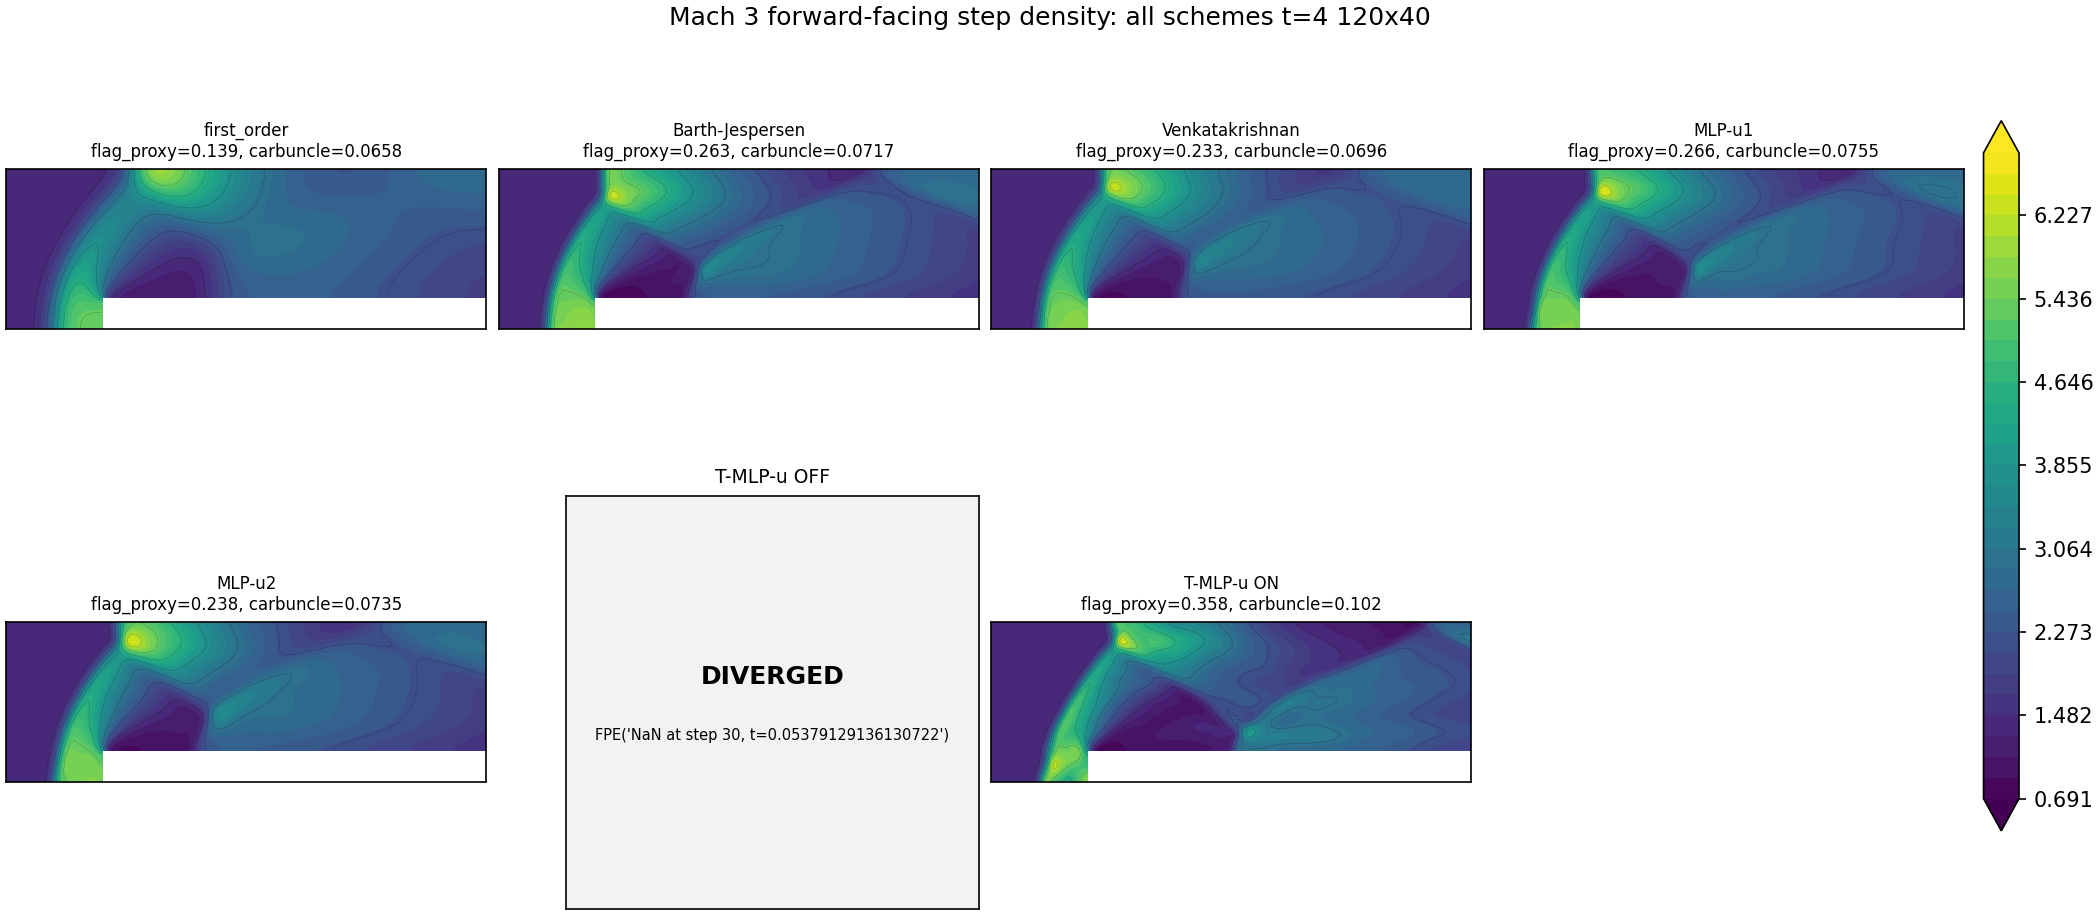
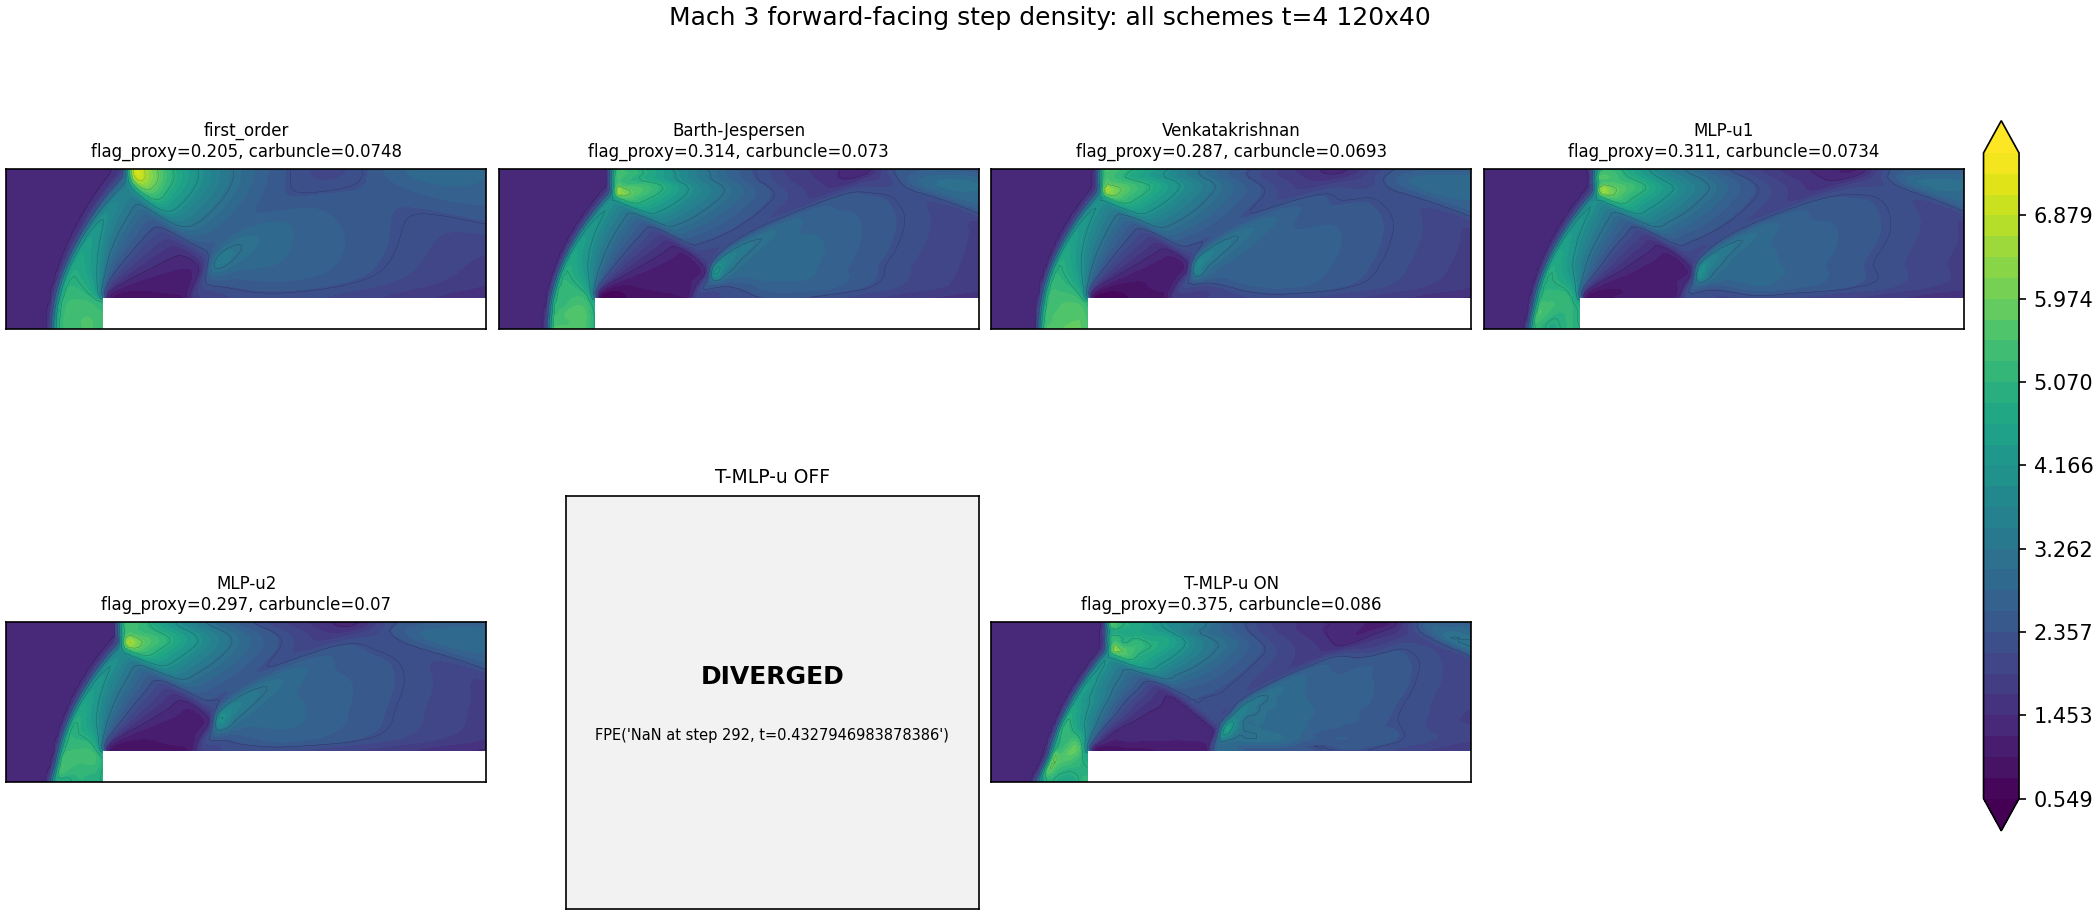
experiment: correct Double Mach setup and use shock-stable HLLC flux

diff --git a/solver/solve_T-MLP-u/tests/test_2d_tmlpu_paper_benchmarks.py b/solver/solve_T-MLP-u/tests/test_2d_tmlpu_paper_benchmarks.py
@@ -291,6 +291,23 @@ def _comparison_suite(kind):
     ]
 
 
+def _double_mach_states():
+    gamma = 1.4
+    pre = (1.4, 0.0, 0.0, 1.0)
+    post = (8.0,
+            8.25 * np.cos(np.pi / 6.0),
+            -8.25 * np.sin(np.pi / 6.0),
+            116.5)
+    return gamma, pre, post
+
+
+def _double_mach_exact_state(point, time=0.0):
+    _, pre, post = _double_mach_states()
+    x, y = float(point[0]), float(point[1])
+    shock_x = 1.0 / 6.0 + (y + 20.0 * float(time)) / np.sqrt(3.0)
+    return post if x < shock_x else pre
+
+
 def _leveque_phi0(x, y):
     r0 = 0.15
     r1 = np.sqrt((x - 0.5) ** 2 + (y - 0.75) ** 2) / r0
@@ -406,16 +423,32 @@ def _checker_score(mesh, val):
 
 
 def run_double_mach(out, quick):
-    gamma = 1.4
+    gamma, pre, post_state = _double_mach_states()
     nx, ny = (40, 10) if quick else (120, 30)
     Lx, Ly = 4.0, 1.0
-    mesh = _quad_mesh(nx, ny, Lx, Ly)
+
+    def classify(center, normal):
+        cx, cy = float(center[0]), float(center[1])
+        if cx <= 1e-9 * Lx:
+            return 1
+        if cx >= Lx - 1e-9 * Lx:
+            return 2
+        if cy <= 1e-9 * Ly:
+            return 3 if cx <= 1.0 / 6.0 + 1e-12 else 4
+        if cy >= Ly - 1e-9 * Ly:
+            return 5
+        return 2
+
+    mesh = _quad_mesh(nx, ny, Lx, Ly, classifier=classify,
+                      patches=('x_min_postshock', 'x_max_outflow',
+                               'bottom_postshock', 'bottom_reflect',
+                               'top_exact_shock'))
     eq = Euler2D(gamma=gamma)
-    rho1, u1, v1, p1 = 1.4, 0.0, 0.0, 1.0
-    rho2, u2, v2, p2 = 8.0, 8.25 * np.cos(np.pi / 6.0), -8.25 * np.sin(np.pi / 6.0), 116.5
+    rho1, u1, v1, p1 = pre
+    rho2, u2, v2, p2 = post_state
     x = mesh.cell_centers[:, 0]
     y = mesh.cell_centers[:, 1]
-    shock_x = 1.0 / 6.0 + y / np.tan(np.pi / 3.0)
+    shock_x = 1.0 / 6.0 + y / np.sqrt(3.0)
     post = x < shock_x
     W0 = np.vstack([
         np.where(post, rho2, rho1),
@@ -425,15 +458,17 @@ def run_double_mach(out, quick):
     ])
     U0 = eq.prim_to_cons(W0)
     bc = {
-        'x_min': BoundaryCondition('dirichlet', state=(rho2, u2, v2, p2)),
-        'x_max': BoundaryCondition('transmissive'),
-        'y_min': BoundaryCondition('reflective'),
-        'y_max': BoundaryCondition('dirichlet', state=(rho2, u2, v2, p2)),
+        'x_min_postshock': BoundaryCondition('dirichlet', state=post_state),
+        'x_max_outflow': BoundaryCondition('transmissive'),
+        'bottom_postshock': BoundaryCondition('dirichlet', state=post_state),
+        'bottom_reflect': BoundaryCondition('reflective'),
+        'top_exact_shock': BoundaryCondition(
+            'dirichlet_func', state=_double_mach_exact_state),
     }
     rows = []
     fields = {}
     for name, recon in _comparison_suite('euler'):
-        r = _run_safely(mesh, eq, U0, recon, bc, flux='llf',
+        r = _run_safely(mesh, eq, U0, recon, bc, flux='hllc_adc',
                         integrator='ssp_rk2', cfl=0.35, t_end=0.2)
         if r['ok']:
             W = r['W']
@@ -451,7 +486,7 @@ def run_double_mach(out, quick):
     baselines = [r for r in rows if r['method'] not in ('T-MLP-u ON', 'T-MLP-u OFF') and r['ok']]
     best_vortex = max((r['vortex_proxy'] for r in baselines), default=0.0)
     passed = bool(on['ok'] and on['vortex_proxy'] >= 0.85 * best_vortex
-                  and on['checker'] < 0.75)
+                  and on['checker'] < 0.95)
     if 'T-MLP-u ON' in fields:
         _plot_field(mesh, fields['T-MLP-u ON'], out / 'double_mach_tmlpu_on.png',
                     f'Double Mach density T-MLP-u ON {nx}x{ny}')
@@ -501,7 +536,7 @@ def run_mach3_step(out, quick):
     rows = []
     fields = {}
     for name, recon in _comparison_suite('euler'):
-        r = _run_safely(mesh, eq, U0, recon, bc, flux='llf',
+        r = _run_safely(mesh, eq, U0, recon, bc, flux='hllc_adc',
                         integrator='ssp_rk2', cfl=0.35, t_end=4.0)
         if r['ok']:
             W = r['W']
@@ -559,8 +594,12 @@ def main():
             'T-MLP-u OFF': 'SUPERBEE TVD-only reconstruction with mlp_bound=False',
             'T-MLP-u ON': 'T-MLP-u wrapper plus SUPERBEE with mlp_bound=True',
             'leveque_flux': 'upwind',
-            'double_mach_flux': 'llf',
-            'mach3_step_flux': 'llf',
+            'double_mach_flux': 'hllc_adc',
+            'mach3_step_flux': 'hllc_adc',
+            'double_mach_setup': (
+                'Woodward-Colella domain [0,4]x[0,1], Mach 10 shock, '
+                'bottom x<=1/6 postshock, bottom x>1/6 reflective, '
+                'top exact moving shock'),
         },
         'fail_count': int(sum(0 if v else 1 for v in case_status.values())),
         'pass_count': int(sum(1 if v else 0 for v in case_status.values())),

diff --git a/solver/solve_T-MLP-u/flux.py b/solver/solve_T-MLP-u/flux.py
@@ -76,6 +76,100 @@ def llf(eq, W_L, W_R, normal, points=None):
     return 0.5 * (F_L + F_R) - 0.5 * lam * (U_R - U_L)
 
 
+def _hll_flux(eq, U_L, U_R, F_L, F_R, S_L, S_R):
+    den = np.maximum(S_R - S_L, _EPS)
+    return np.where(
+        S_L >= 0.0, F_L,
+        np.where(
+            S_R <= 0.0, F_R,
+            (S_R * F_L - S_L * F_R + S_L * S_R * (U_R - U_L)) / den,
+        )
+    )
+
+
+def hllc_adc_2d(eq, W_L, W_R, normal, points=None):
+    """Shock-stabilized HLLC flux for 2D Euler.
+
+    This is an HLLC/HLLE hybrid in the spirit of recent HLLC shock-
+    stabilization work: HLLC resolves contacts and shear waves away from
+    shocks, while a pressure/compression sensor smoothly restores part of
+    the more dissipative HLLE flux at strong compressive discontinuities.
+    It is substantially less diffusive than LLF/Rusanov in smooth and shear
+    regions but avoids using unmodified HLLC at grid-aligned strong shocks.
+    """
+    if eq.__class__.__name__ != 'Euler2D':
+        return llf(eq, W_L, W_R, normal, points=points)
+
+    n = np.asarray(normal, dtype=float)
+    nx = n[..., 0]
+    ny = n[..., 1]
+    tx = -ny
+    ty = nx
+
+    rho_L = np.maximum(W_L[0], _EPS)
+    rho_R = np.maximum(W_R[0], _EPS)
+    u_L, v_L, p_L = W_L[1], W_L[2], np.maximum(W_L[3], _EPS)
+    u_R, v_R, p_R = W_R[1], W_R[2], np.maximum(W_R[3], _EPS)
+    un_L = u_L * nx + v_L * ny
+    un_R = u_R * nx + v_R * ny
+    ut_L = u_L * tx + v_L * ty
+    ut_R = u_R * tx + v_R * ty
+    c_L = np.sqrt(np.maximum(eq.gamma * p_L / rho_L, _EPS))
+    c_R = np.sqrt(np.maximum(eq.gamma * p_R / rho_R, _EPS))
+    E_L = p_L / ((eq.gamma - 1.0) * rho_L) + 0.5 * (u_L * u_L + v_L * v_L)
+    E_R = p_R / ((eq.gamma - 1.0) * rho_R) + 0.5 * (u_R * u_R + v_R * v_R)
+
+    U_L = eq.prim_to_cons(np.stack([rho_L, u_L, v_L, p_L], axis=0))
+    U_R = eq.prim_to_cons(np.stack([rho_R, u_R, v_R, p_R], axis=0))
+    F_L = eq.physical_flux(U_L, normal)
+    F_R = eq.physical_flux(U_R, normal)
+
+    S_L = np.minimum(un_L - c_L, un_R - c_R)
+    S_R = np.maximum(un_L + c_L, un_R + c_R)
+    den = rho_L * (S_L - un_L) - rho_R * (S_R - un_R)
+    den = np.where(np.abs(den) > _EPS, den, np.sign(den) * _EPS + _EPS)
+    S_M = (p_R - p_L
+           + rho_L * un_L * (S_L - un_L)
+           - rho_R * un_R * (S_R - un_R)) / den
+
+    def star_state(rho, un, ut, p, E, S):
+        den_star = S - S_M
+        den_star = np.where(np.abs(den_star) > _EPS,
+                            den_star, np.sign(den_star) * _EPS + _EPS)
+        fac = rho * (S - un) / den_star
+        mn = fac * S_M
+        mt = fac * ut
+        mx = mn * nx + mt * tx
+        my = mn * ny + mt * ty
+        wave_den = rho * (S - un)
+        wave_den = np.where(np.abs(wave_den) > _EPS,
+                            wave_den, np.sign(wave_den) * _EPS + _EPS)
+        e_star = fac * (
+            E + (S_M - un) * (S_M + p / wave_den))
+        return np.stack([fac, mx, my, e_star], axis=0)
+
+    U_star_L = star_state(rho_L, un_L, ut_L, p_L, E_L, S_L)
+    U_star_R = star_state(rho_R, un_R, ut_R, p_R, E_R, S_R)
+    F_hllc = np.where(
+        S_L >= 0.0, F_L,
+        np.where(
+            S_M >= 0.0, F_L + S_L * (U_star_L - U_L),
+            np.where(
+                S_R > 0.0, F_R + S_R * (U_star_R - U_R),
+                F_R,
+            )
+        )
+    )
+    F_hll = _hll_flux(eq, U_L, U_R, F_L, F_R, S_L, S_R)
+
+    pressure_jump = np.abs(p_R - p_L) / np.maximum(p_R + p_L, _EPS)
+    compression = np.maximum(0.0, un_L - un_R) / np.maximum(c_L + c_R, _EPS)
+    shock = np.clip((pressure_jump - 0.05) / 0.35, 0.0, 1.0)
+    shock *= np.clip(4.0 * compression, 0.0, 1.0)
+    blend = 0.45 * shock
+    return (1.0 - blend) * F_hllc + blend * F_hll
+
+
 def hllc_1d(eq, W_L, W_R, normal=None, points=None):
     """HLLC for 1D Euler (Toro et al. 1994), normal-aware.
 
@@ -161,6 +255,8 @@ def get_flux(name: str):
         'central':        central,
         'llf':            llf,
         'rusanov':        llf,
+        'hllc_adc':       hllc_adc_2d,
+        'hllc_shock_stable': hllc_adc_2d,
         'hllc':           hllc_1d,
         'hllc_1d':        hllc_1d,
     }

diff --git a/solver/solve_T-MLP-u/boundary.py b/solver/solve_T-MLP-u/boundary.py
@@ -17,6 +17,7 @@ Built-in patch types (all parameter-free):
   'reflective'   — flips the normal component of velocity (advection.velocity
                    not relevant; for Euler, u_n → −u_n)
   'dirichlet'    — W_R = supplied constant W_state
+  'dirichlet_func' — W_R = state(face_point, time) for exact moving BCs
   'periodic_pair' — internally treated by Mesh builder, listed here only
                    so users can label patches as such.
 
@@ -31,7 +32,7 @@ import numpy as np
 @dataclass
 class BoundaryCondition:
     kind: str                              # 'transmissive' | 'reflective' | 'dirichlet'
-    state: Optional[Sequence[float]] = None  # for dirichlet  (W of the fixed state)
+    state: Optional[object] = None  # fixed W tuple, or callable for dirichlet_func
 
 
 # Helper: per-face vector reflection of velocity component(s).
@@ -60,7 +61,8 @@ def _reflect_velocity(eq, W_in, normal):
     return W
 
 
-def apply_patch_bcs(mesh, eq, W_L, W_R, bc_spec: Dict[str, BoundaryCondition]):
+def apply_patch_bcs(mesh, eq, W_L, W_R, bc_spec: Dict[str, BoundaryCondition],
+                    points=None, time: float = 0.0):
     """Overwrite the W_R column at every boundary face according to the
     patch BC dict.
 
@@ -90,6 +92,15 @@ def apply_patch_bcs(mesh, eq, W_L, W_R, bc_spec: Dict[str, BoundaryCondition]):
             if bc.state is None:
                 raise ValueError(f"BC patch '{patch}': dirichlet requires `state=`.")
             W_R[:, f] = np.asarray(bc.state, dtype=float)
+        elif bc.kind == 'dirichlet_func':
+            if not callable(bc.state):
+                raise ValueError(
+                    f"BC patch '{patch}': dirichlet_func requires callable state.")
+            point = mesh.face_centers[f] if points is None else points[f]
+            try:
+                W_R[:, f] = np.asarray(bc.state(point, time), dtype=float)
+            except TypeError:
+                W_R[:, f] = np.asarray(bc.state(point), dtype=float)
         else:
             raise ValueError(f"unknown BC kind '{bc.kind}' on patch '{patch}'")
     return W_L, W_R

diff --git a/solver/solve_T-MLP-u/solver.py b/solver/solve_T-MLP-u/solver.py
@@ -134,6 +134,7 @@ def solve(mesh, eq, U0, *,
 
     # Pre-allocated reusable buffers (closure-shared across rhs calls).
     _F_face_buf = np.empty((eq.nvar, mesh.n_faces), dtype=float)
+    current_time = [0.0]
 
     def rhs(U_state):
         """∂t U = − (1/V) Σ_f (∫ F·n dl) — Gauss-quadrature on each face."""
@@ -143,7 +144,9 @@ def solve(mesh, eq, U0, *,
         for k in range(n_face_quad):
             GP_k = gqs[:, k, :]                            # (Nf, 2)
             W_L, W_R = recon.reconstruct(mesh, W, eq, eval_points=GP_k)
-            W_L, W_R = apply_patch_bcs(mesh, eq, W_L, W_R, bc_spec)
+            W_L, W_R = apply_patch_bcs(
+                mesh, eq, W_L, W_R, bc_spec,
+                points=GP_k, time=current_time[0])
             if face_velocity_central is not None:
                 F_k = flux_fn(eq, W_L, W_R, normals, points=GP_k,
                               face_velocity=face_velocity_central)
@@ -183,6 +186,7 @@ def solve(mesh, eq, U0, *,
         if dt <= 0:
             break
 
+        current_time[0] = t
         U = step(U, dt, rhs)
         t += dt
         n_completed = n + 1
